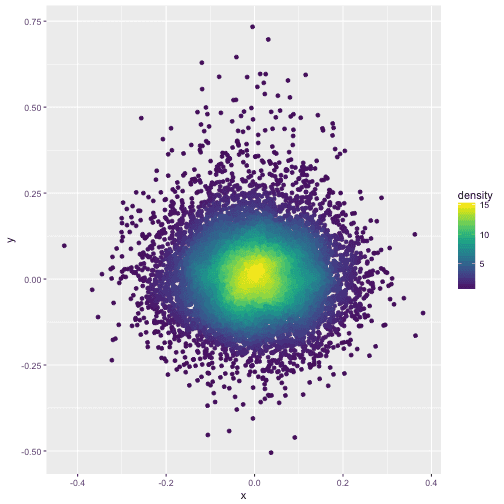
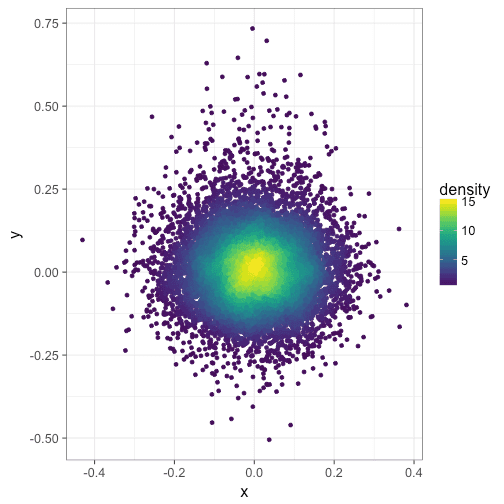
update ggplot2 density

diff --git a/_posts/2017-01-17-ggplot2-color-by-density.md b/_posts/2017-01-17-ggplot2-color-by-density.md
@@ -20,6 +20,7 @@ Load libraries, define a convenience function to call [MASS::kde2d], and generat
 library(MASS)
 library(ggplot2)
 library(viridis)
+theme_set(theme_bw(base_size = 16))
 
 # Get density of points in 2 dimensions.
 # @param x A numeric vector.
